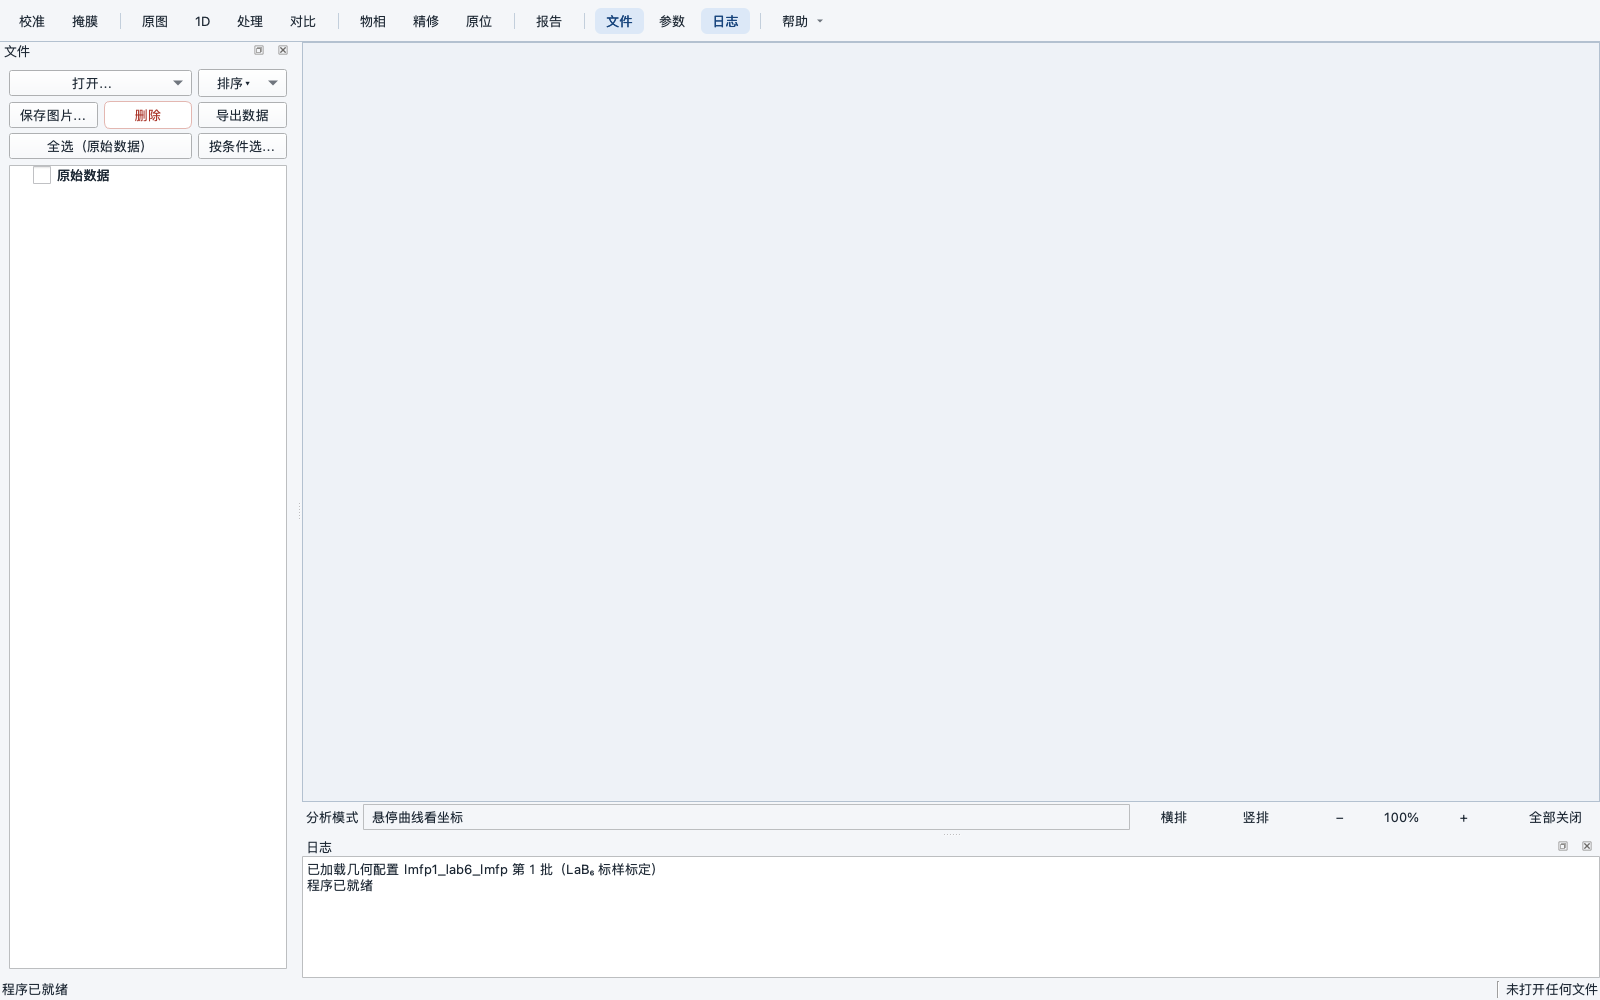
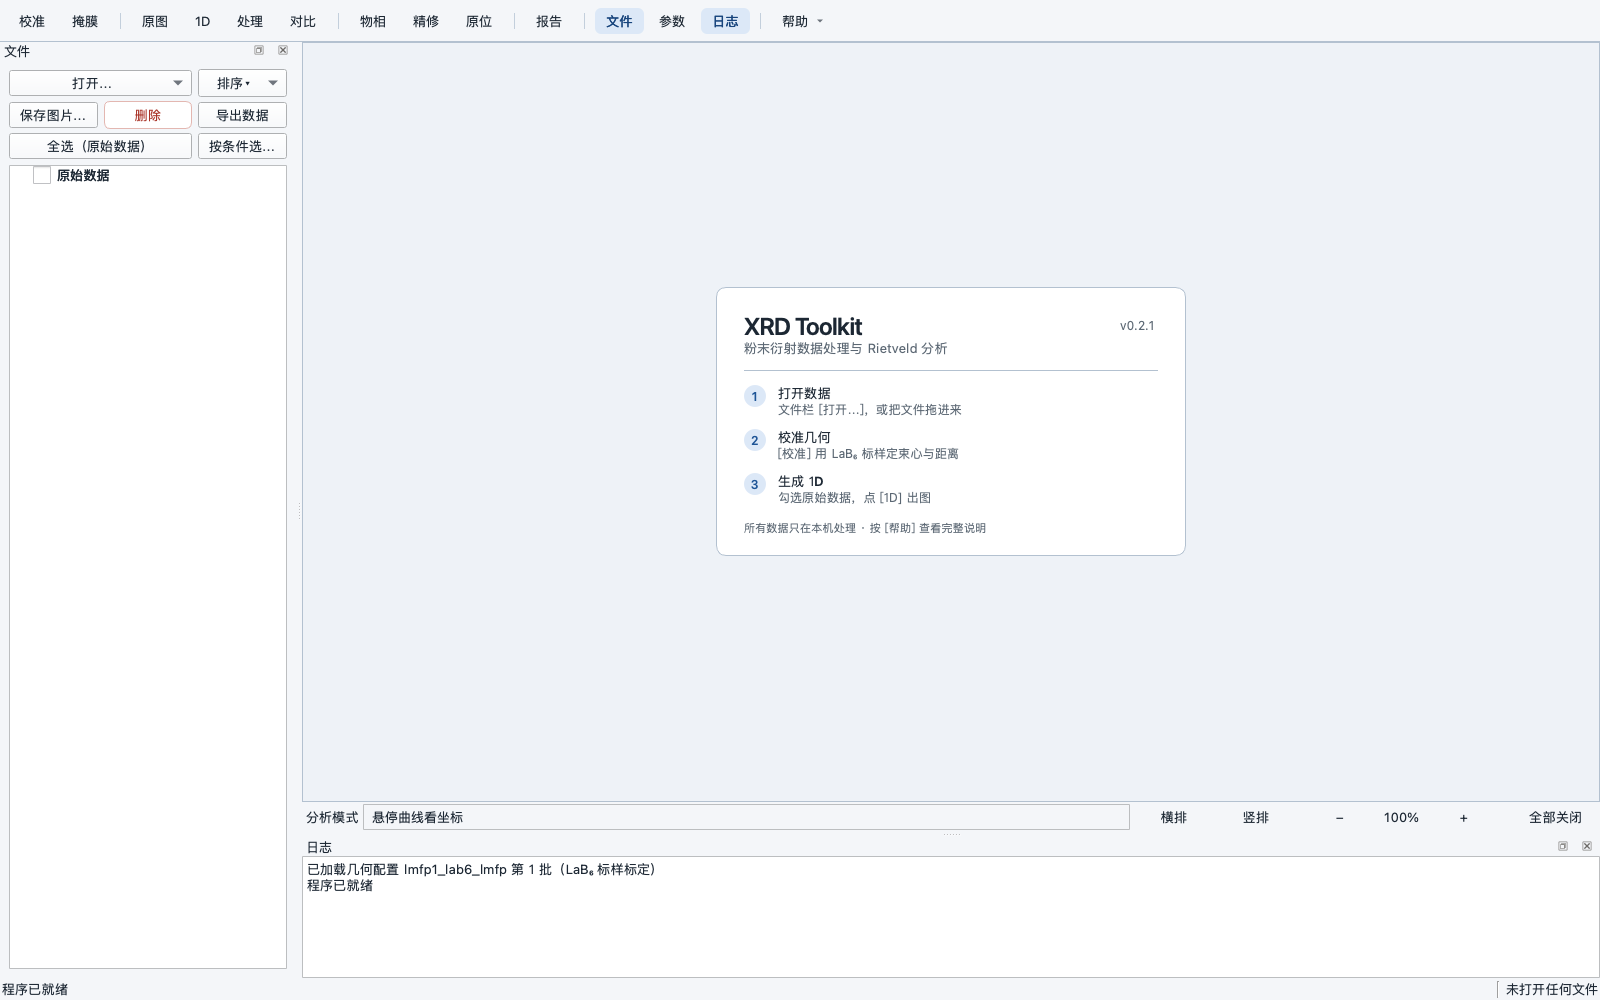
feat: add a static welcome card to the empty work area
Show a restrained card in the MDI viewport when no subwindow is open: app
name, version, the three-step path (open data, calibrate, 1D) and a local-
processing note. It is a plain viewport child, not a QMdiSubWindow, so it
never enters tiling, pop-out or close-all; it hides as soon as any plot or
workbench opens and returns when the last one closes.

Changed region(s): [[0.4688, 0.31, 0.625, 0.558], [0.375, 0.868, 0.4062, 0.899], [0.3125, 0.868, 0.3438, 0.899]]

diff --git a/src/xrd_toolkit/gui/welcome_card.py b/src/xrd_toolkit/gui/welcome_card.py
@@ -1,0 +1,144 @@
+"""空工作区的欢迎卡（2026-11-28 视觉第五轮）。
+
+只在绘图区**没有任何子窗口**时显示：静态卡片，不新增按钮或交互。
+第一印象从「一块空的浅灰画布」变成「三步上手」。
+
+实现上它是 MDI viewport 的子控件，不是 MDI 子窗口——否则会进
+subWindowList、被平铺/弹出/关闭影响，也会被测试当成一张图。
+"""
+from __future__ import annotations
+
+from PySide6.QtCore import QEvent, QObject, Qt, QTimer
+from PySide6.QtWidgets import (
+    QFrame, QGridLayout, QHBoxLayout, QLabel, QVBoxLayout, QWidget)
+
+from xrd_toolkit import __version__
+from xrd_toolkit.gui.theme import (
+    ACCENT, ACCENT_SOFT, BORDER_STRONG, MUTED, SURFACE, TEXT)
+
+
+class WelcomeCard(QWidget):
+    """空态欢迎卡：软件名、版本、三步和一句数据去向。"""
+
+    def __init__(self, parent=None):
+        super().__init__(parent)
+        self.setObjectName("welcomeCard")
+        self.setAttribute(Qt.WidgetAttribute.WA_StyledBackground, True)
+        self.setFixedWidth(470)
+        self.setStyleSheet(
+            f"QWidget#welcomeCard {{"
+            f" background: {SURFACE};"
+            f" border: 1px solid {BORDER_STRONG};"
+            f" border-radius: 10px; }}"
+            f"QLabel {{ background: transparent; border: none; }}")
+
+        lay = QVBoxLayout(self)
+        lay.setContentsMargins(28, 24, 28, 22)
+        lay.setSpacing(0)
+
+        head = QHBoxLayout()
+        head.setContentsMargins(0, 0, 0, 0)
+        head.setSpacing(8)
+        title = QLabel("XRD Toolkit")
+        title.setStyleSheet(
+            f"color: {TEXT}; font-size: 18pt; font-weight: 600;")
+        head.addWidget(title)
+        head.addStretch(1)
+        version = QLabel(f"v{__version__}")
+        version.setStyleSheet(
+            f"color: {MUTED}; font-size: 9pt; padding-top: 7px;")
+        head.addWidget(version, 0, Qt.AlignmentFlag.AlignTop)
+        lay.addLayout(head)
+
+        subtitle = QLabel("粉末衍射数据处理与 Rietveld 分析")
+        subtitle.setStyleSheet(f"color: {MUTED}; font-size: 10pt;")
+        lay.addWidget(subtitle)
+
+        lay.addSpacing(14)
+        rule = QFrame()
+        rule.setFixedHeight(1)
+        rule.setStyleSheet(
+            f"background: {BORDER_STRONG}; border: none;")
+        lay.addWidget(rule)
+        lay.addSpacing(14)
+
+        grid = QGridLayout()
+        grid.setContentsMargins(0, 0, 0, 0)
+        grid.setHorizontalSpacing(12)
+        grid.setVerticalSpacing(12)
+        steps = (
+            ("打开数据", "文件栏 [打开…]，或把文件拖进来"),
+            ("校准几何", "[校准] 用 LaB₆ 标样定束心与距离"),
+            ("生成 1D", "勾选原始数据，点 [1D] 出图"),
+        )
+        for index, (step_title, step_hint) in enumerate(steps):
+            badge = QLabel(str(index + 1))
+            badge.setFixedSize(22, 22)
+            badge.setAlignment(Qt.AlignmentFlag.AlignCenter)
+            badge.setStyleSheet(
+                f"background: {ACCENT_SOFT}; color: {ACCENT};"
+                f" border-radius: 11px; font-weight: 600;"
+                f" font-size: 9pt;")
+            grid.addWidget(badge, index, 0,
+                           Qt.AlignmentFlag.AlignTop)
+            text = QVBoxLayout()
+            text.setContentsMargins(0, 0, 0, 0)
+            text.setSpacing(1)
+            name = QLabel(step_title)
+            name.setStyleSheet(f"color: {TEXT}; font-weight: 600;")
+            text.addWidget(name)
+            hint = QLabel(step_hint)
+            hint.setWordWrap(True)
+            hint.setStyleSheet(f"color: {MUTED}; font-size: 9pt;")
+            text.addWidget(hint)
+            grid.addLayout(text, index, 1)
+        lay.addLayout(grid)
+
+        lay.addSpacing(16)
+        note = QLabel("所有数据只在本机处理 · 按 [帮助] 查看完整说明")
+        note.setStyleSheet(f"color: {MUTED}; font-size: 8.5pt;")
+        lay.addWidget(note)
+
+        self.adjustSize()
+
+
+def sync_welcome(window) -> None:
+    """按 MDI 子窗口数量显示/定位欢迎卡。"""
+    card = getattr(window, "welcome_card", None)
+    mdi = getattr(window, "mdi", None)
+    if card is None or mdi is None:
+        return
+    if mdi.subWindowList():
+        card.hide()
+        return
+    card.adjustSize()
+    area = mdi.viewport().rect()
+    x = area.x() + max(0, (area.width() - card.width()) // 2)
+    y = area.y() + max(0, (area.height() - card.height()) // 2)
+    card.move(x, y)
+    card.show()
+    card.raise_()
+
+
+class WelcomeCardFilter(QObject):
+    """监听 viewport 的尺寸和子窗口增删，同步欢迎卡。"""
+
+    def __init__(self, window):
+        super().__init__(window)
+        self.window = window
+
+    def eventFilter(self, obj, event):
+        if event.type() in (QEvent.Type.ChildAdded,
+                            QEvent.Type.ChildRemoved):
+            # 子窗口增删事件先于 subWindowList 更新送达；等事件循环
+            # 走完再查列表，否则会按旧状态显示/隐藏（2026-11-28 实测）。
+            QTimer.singleShot(0, self._sync_later)
+        elif event.type() in (QEvent.Type.Resize, QEvent.Type.Show):
+            sync_welcome(self.window)
+        return False
+
+    def _sync_later(self):
+        try:
+            sync_welcome(self.window)
+        except RuntimeError:
+            pass          # 窗口在定时器排队期间被销毁

diff --git a/src/xrd_toolkit/gui/panel_layout.py b/src/xrd_toolkit/gui/panel_layout.py
@@ -15,6 +15,8 @@ from xrd_toolkit.gui.panel_container import (
     _FloatedWindow, _PlotSubWindow, _apply_panel_chrome, _close_all_panels,
     _copy_panel_attrs)
 from xrd_toolkit.gui.panel_widgets import _CoordReadout
+from xrd_toolkit.gui.welcome_card import (
+    WelcomeCard, WelcomeCardFilter, sync_welcome)
 
 
 def _build_center(window: QMainWindow) -> None:
@@ -35,6 +37,12 @@ def _build_center(window: QMainWindow) -> None:
     # viewport 仍画 Fusion 的 #9f9f9f（2026-11-28 离屏取样确认）。
     mdi.setBackground(QBrush(QColor(MDI_BG)))
     window.mdi = mdi
+    # 空态欢迎卡：viewport 的子控件（不是 MDI 子窗口），随子窗口增删
+    # 显示/隐藏，见 gui/welcome_card.py。
+    window.welcome_card = WelcomeCard(mdi.viewport())
+    window.welcome_card.hide()
+    window._welcome_filter = WelcomeCardFilter(window)
+    mdi.viewport().installEventFilter(window._welcome_filter)
     # Ctrl+滚轮 = 总缩放（Excel 习惯）：过滤器装在视口上管灰底/
     # 标题栏上的 Ctrl+滚轮，普通滚轮穿透给 QMdiArea 自己滚动；
     # 光标在图上方的那条路在 _wheel_zoom 的 mpl 层拦截
@@ -136,6 +144,7 @@ def _build_center(window: QMainWindow) -> None:
     lay.addWidget(strip)
     window._bottom_strip = strip
     window.setCentralWidget(center)
+    sync_welcome(window)
 
 
 def _set_bottom_strip_visible(window: QMainWindow, visible: bool) -> None:
